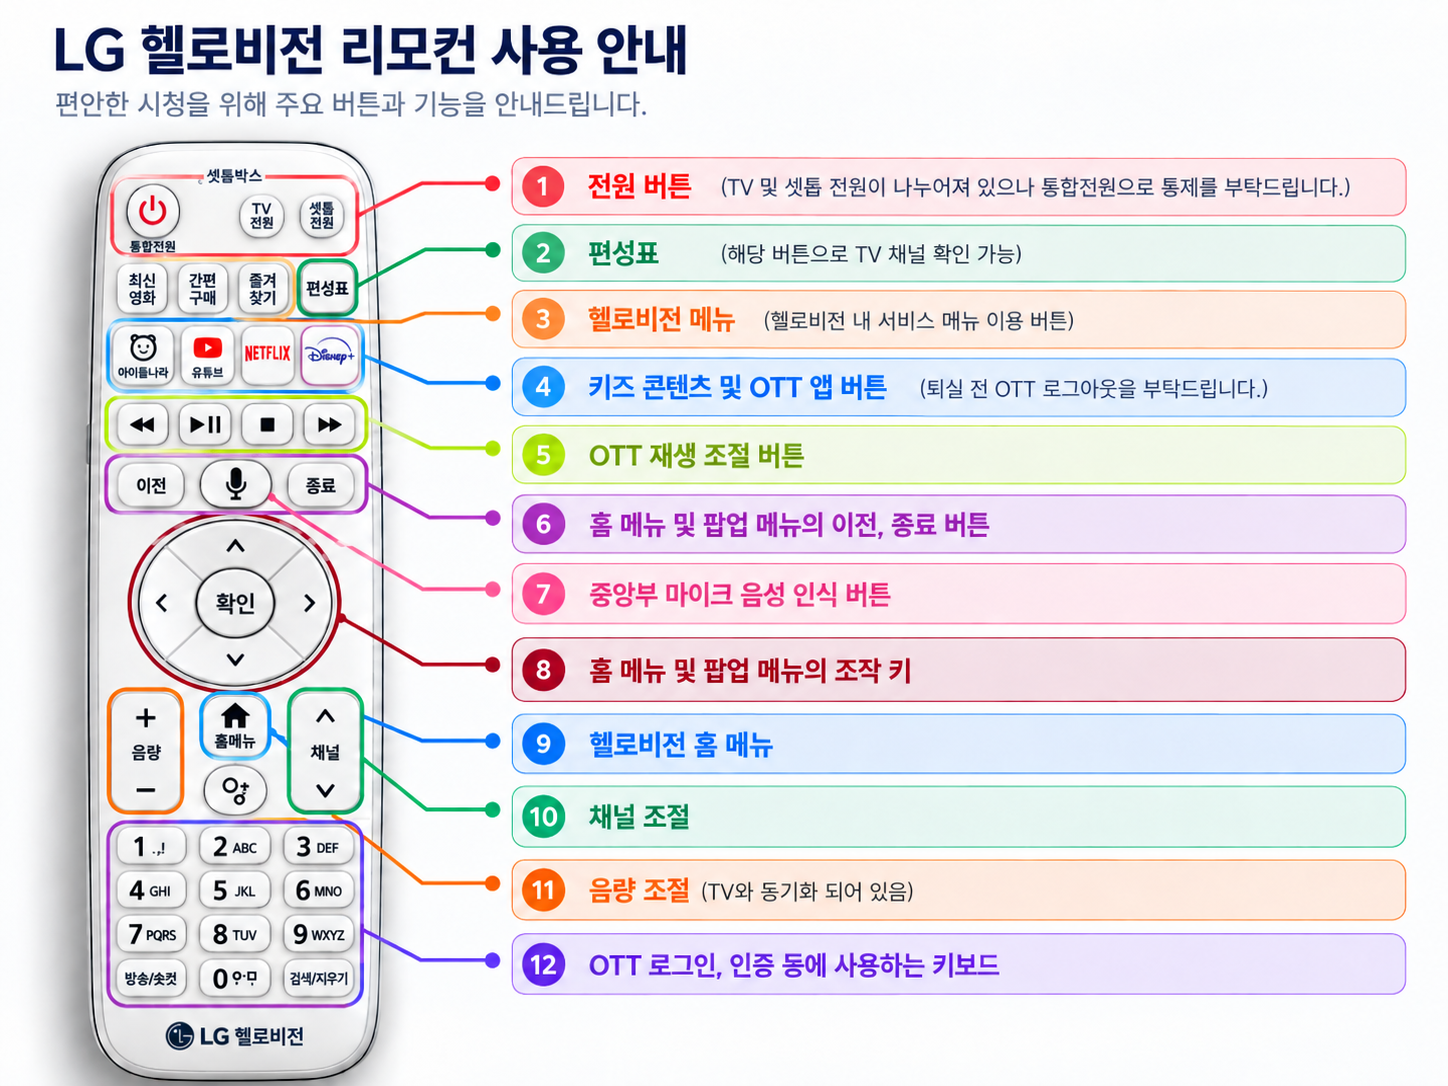
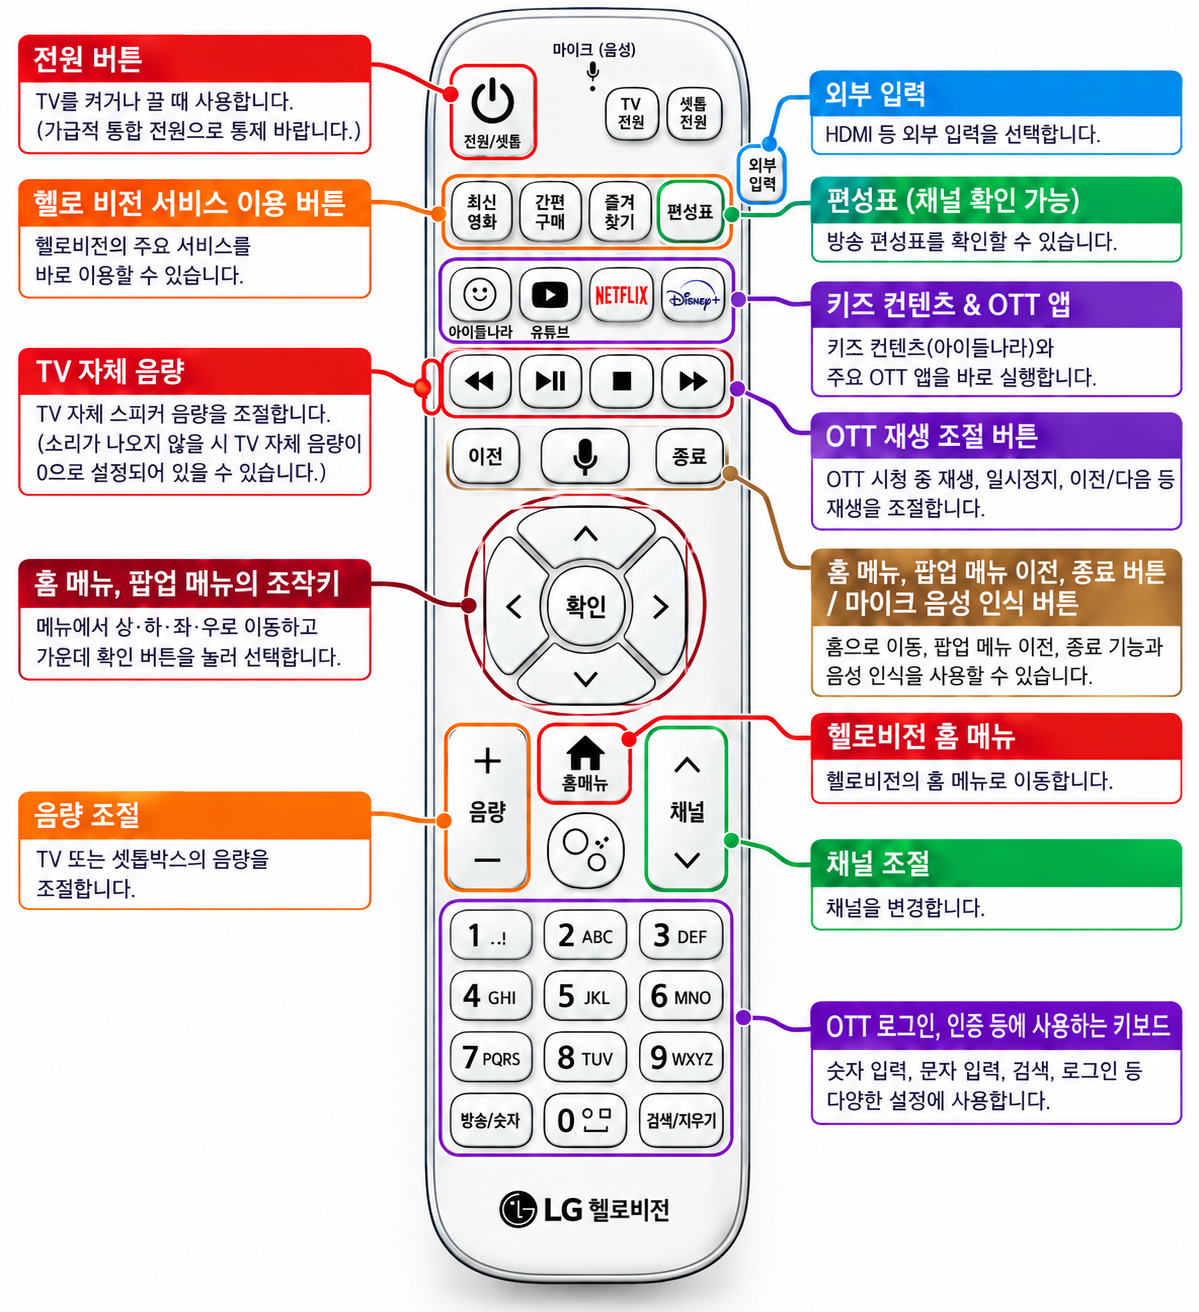
TV 리모컨 안내 이미지를 수정본(세로형)으로 교체

diff --git a/index.html b/index.html
@@ -28,7 +28,7 @@
     <main class="guides">
       <article class="guide" id="tv">
         <div class="guide-head"><span class="badge">01</span><h2>TV 리모컨</h2></div>
-        <div class="card"><img src="images/tv.png" width="1448" height="1086" loading="lazy" alt="LG 헬로비전 TV 리모컨 사용 안내"></div>
+        <div class="card"><img src="images/tv.png" width="1199" height="1312" loading="lazy" alt="LG 헬로비전 TV 리모컨 사용 안내"></div>
         <div class="guide-action"><a class="btn btn-fill" href="images/tv.png" data-src="images/tv.png" data-title="TV 리모컨"><svg class="icon" viewBox="0 0 24 24" aria-hidden="true"><circle cx="11" cy="11" r="7"/><path d="M21 21l-4.5-4.5M11 8v6M8 11h6"/></svg>크게 보기</a></div>
       </article>
       <article class="guide" id="aircon">
